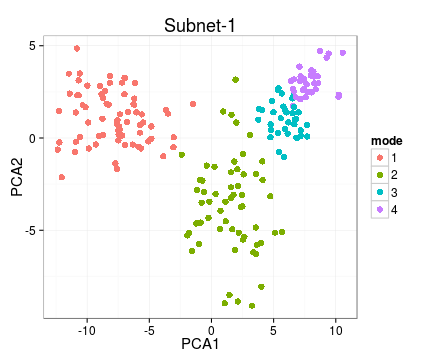
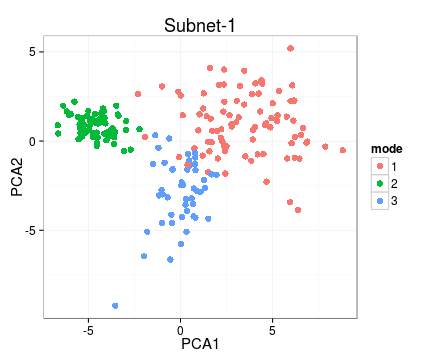
R

diff --git a/vignettes/NetResponse.md b/vignettes/NetResponse.md
@@ -45,8 +45,7 @@ alternative states.
 Examples on running NetResponse algorithm and visualizing the
 results. The algorithm combines network and functional information to
 detect coherent subnetworks that reveal distinct activation modes
-across conditions. Kindly cite [this
-article](http://bioinformatics.oxfordjournals.org/content/26/21/2713.short).
+across conditions. 
 
 
 ```r
@@ -60,11 +59,14 @@ component.means <- res$means
 component.sds   <- res$sds
 sample2comp     <- res$sample2comp
 
+# Use fully connected network
+network <- matrix(rep(1, 9), nrow = 3) 
+
 # Fit NetResponse model
 # Various network formats are supported, see help(detect.responses) for
 # details. With large data sets, consider the 'speedup' option.
 set.seed(4243)
-res <- detect.responses(D, mixture.method = "vdp", pca.basis = TRUE)
+res <- detect.responses(D, network, mixture.method = "vdp", pca.basis = TRUE)
 
 # List subnets (each is a list of nodes)
 subnet.id <- names(get.subnets(res))[[1]]
@@ -140,6 +142,22 @@ the highest probability:
 ```r
 subnet.id <- 'Subnet-1'
 
+# Sample - response probabilities (soft cluster assignment)
+response.probs <- sample2response(res, subnet.id)
+tail(round(response.probs, 6))
+```
+
+```
+##              Mode-1   Mode-2 Mode-3
+## Sample-195 0.990832 0.009118  5e-05
+## Sample-196 1.000000 0.000000  0e+00
+## Sample-197 1.000000 0.000000  0e+00
+## Sample-198 1.000000 0.000000  0e+00
+## Sample-199 1.000000 0.000000  0e+00
+## Sample-200 0.999991 0.000000  9e-06
+```
+
+```r
 # Sample - response hard assignments
 hard.clusters <- response2sample(res, subnet.id)
 print(hard.clusters)
@@ -147,70 +165,51 @@ print(hard.clusters)
 
 ```
 ## $`Mode-1`
-##  [1] "Sample-9"   "Sample-11"  "Sample-15"  "Sample-22"  "Sample-27" 
-##  [6] "Sample-33"  "Sample-34"  "Sample-36"  "Sample-40"  "Sample-42" 
-## [11] "Sample-44"  "Sample-45"  "Sample-49"  "Sample-50"  "Sample-52" 
-## [16] "Sample-53"  "Sample-54"  "Sample-60"  "Sample-61"  "Sample-63" 
-## [21] "Sample-66"  "Sample-68"  "Sample-69"  "Sample-71"  "Sample-72" 
-## [26] "Sample-76"  "Sample-78"  "Sample-83"  "Sample-84"  "Sample-87" 
-## [31] "Sample-96"  "Sample-97"  "Sample-98"  "Sample-106" "Sample-111"
-## [36] "Sample-113" "Sample-116" "Sample-118" "Sample-122" "Sample-123"
-## [41] "Sample-124" "Sample-127" "Sample-129" "Sample-134" "Sample-137"
-## [46] "Sample-139" "Sample-142" "Sample-144" "Sample-151" "Sample-153"
-## [51] "Sample-154" "Sample-159" "Sample-161" "Sample-163" "Sample-167"
-## [56] "Sample-173" "Sample-174" "Sample-175" "Sample-177" "Sample-179"
-## [61] "Sample-180" "Sample-181" "Sample-183" "Sample-184" "Sample-186"
-## [66] "Sample-187" "Sample-188" "Sample-190" "Sample-191" "Sample-192"
-## [71] "Sample-197" "Sample-198"
+##  [1] "Sample-1"   "Sample-2"   "Sample-3"   "Sample-4"   "Sample-5"  
+##  [6] "Sample-7"   "Sample-8"   "Sample-12"  "Sample-13"  "Sample-18" 
+## [11] "Sample-19"  "Sample-20"  "Sample-21"  "Sample-22"  "Sample-24" 
+## [16] "Sample-25"  "Sample-27"  "Sample-30"  "Sample-33"  "Sample-34" 
+## [21] "Sample-36"  "Sample-37"  "Sample-39"  "Sample-42"  "Sample-44" 
+## [26] "Sample-46"  "Sample-47"  "Sample-51"  "Sample-55"  "Sample-56" 
+## [31] "Sample-58"  "Sample-59"  "Sample-61"  "Sample-64"  "Sample-65" 
+## [36] "Sample-70"  "Sample-71"  "Sample-73"  "Sample-78"  "Sample-80" 
+## [41] "Sample-82"  "Sample-83"  "Sample-88"  "Sample-92"  "Sample-96" 
+## [46] "Sample-99"  "Sample-100" "Sample-102" "Sample-103" "Sample-106"
+## [51] "Sample-107" "Sample-108" "Sample-110" "Sample-112" "Sample-113"
+## [56] "Sample-115" "Sample-121" "Sample-123" "Sample-124" "Sample-131"
+## [61] "Sample-134" "Sample-138" "Sample-139" "Sample-144" "Sample-145"
+## [66] "Sample-147" "Sample-148" "Sample-150" "Sample-151" "Sample-153"
+## [71] "Sample-154" "Sample-156" "Sample-160" "Sample-161" "Sample-164"
+## [76] "Sample-165" "Sample-170" "Sample-173" "Sample-176" "Sample-179"
+## [81] "Sample-185" "Sample-188" "Sample-190" "Sample-192" "Sample-197"
+## [86] "Sample-199" "Sample-200"
 ## 
 ## $`Mode-2`
-##  [1] "Sample-8"   "Sample-10"  "Sample-13"  "Sample-17"  "Sample-19" 
-##  [6] "Sample-20"  "Sample-21"  "Sample-23"  "Sample-24"  "Sample-26" 
-## [11] "Sample-29"  "Sample-30"  "Sample-31"  "Sample-39"  "Sample-46" 
-## [16] "Sample-48"  "Sample-51"  "Sample-57"  "Sample-67"  "Sample-74" 
-## [21] "Sample-77"  "Sample-81"  "Sample-86"  "Sample-90"  "Sample-93" 
-## [26] "Sample-95"  "Sample-101" "Sample-104" "Sample-109" "Sample-110"
-## [31] "Sample-117" "Sample-119" "Sample-121" "Sample-125" "Sample-126"
-## [36] "Sample-130" "Sample-131" "Sample-135" "Sample-141" "Sample-143"
-## [41] "Sample-146" "Sample-147" "Sample-150" "Sample-157" "Sample-158"
-## [46] "Sample-160" "Sample-165" "Sample-166" "Sample-171" "Sample-172"
-## [51] "Sample-176" "Sample-178" "Sample-182" "Sample-185" "Sample-189"
-## [56] "Sample-193" "Sample-195" "Sample-199" "Sample-200"
+##  [1] "Sample-6"   "Sample-9"   "Sample-11"  "Sample-15"  "Sample-17" 
+##  [6] "Sample-23"  "Sample-28"  "Sample-29"  "Sample-31"  "Sample-32" 
+## [11] "Sample-35"  "Sample-38"  "Sample-43"  "Sample-45"  "Sample-48" 
+## [16] "Sample-49"  "Sample-53"  "Sample-54"  "Sample-57"  "Sample-60" 
+## [21] "Sample-66"  "Sample-68"  "Sample-69"  "Sample-74"  "Sample-75" 
+## [26] "Sample-76"  "Sample-77"  "Sample-79"  "Sample-85"  "Sample-89" 
+## [31] "Sample-93"  "Sample-95"  "Sample-98"  "Sample-109" "Sample-114"
+## [36] "Sample-122" "Sample-125" "Sample-130" "Sample-133" "Sample-135"
+## [41] "Sample-136" "Sample-137" "Sample-140" "Sample-142" "Sample-143"
+## [46] "Sample-149" "Sample-158" "Sample-159" "Sample-163" "Sample-166"
+## [51] "Sample-167" "Sample-168" "Sample-171" "Sample-172" "Sample-174"
+## [56] "Sample-175" "Sample-180" "Sample-181" "Sample-182" "Sample-183"
+## [61] "Sample-187" "Sample-189" "Sample-191" "Sample-196" "Sample-198"
 ## 
 ## $`Mode-3`
-##  [1] "Sample-1"   "Sample-4"   "Sample-5"   "Sample-7"   "Sample-12" 
-##  [6] "Sample-14"  "Sample-18"  "Sample-25"  "Sample-32"  "Sample-37" 
-## [11] "Sample-38"  "Sample-41"  "Sample-43"  "Sample-47"  "Sample-58" 
-## [16] "Sample-59"  "Sample-62"  "Sample-65"  "Sample-70"  "Sample-75" 
-## [21] "Sample-79"  "Sample-82"  "Sample-102" "Sample-107" "Sample-114"
-## [26] "Sample-115" "Sample-120" "Sample-128" "Sample-136" "Sample-140"
-## [31] "Sample-145" "Sample-148" "Sample-156" "Sample-162" "Sample-164"
-## [36] "Sample-169"
-## 
-## $`Mode-4`
-##  [1] "Sample-2"   "Sample-3"   "Sample-6"   "Sample-16"  "Sample-28" 
-##  [6] "Sample-35"  "Sample-55"  "Sample-56"  "Sample-64"  "Sample-73" 
-## [11] "Sample-80"  "Sample-85"  "Sample-88"  "Sample-89"  "Sample-91" 
-## [16] "Sample-92"  "Sample-94"  "Sample-99"  "Sample-100" "Sample-103"
-## [21] "Sample-105" "Sample-108" "Sample-112" "Sample-132" "Sample-133"
-## [26] "Sample-138" "Sample-149" "Sample-152" "Sample-155" "Sample-168"
-## [31] "Sample-170" "Sample-194" "Sample-196"
-```
-
-```r
-# Sample - response probabilities (soft cluster assignment)
-response.probs <- sample2response(res, subnet.id)
-tail(round(response.probs, 6))
-```
-
-```
-##              Mode-1   Mode-2  Mode-3   Mode-4
-## Sample-195 0.992176 0.007824 0.0e+00 0.000000
-## Sample-196 0.000000 1.000000 0.0e+00 0.000000
-## Sample-197 0.001001 0.996800 2.5e-05 0.002175
-## Sample-198 0.000000 1.000000 0.0e+00 0.000000
-## Sample-199 0.000010 0.999990 0.0e+00 0.000000
-## Sample-200 0.000000 0.999999 1.0e-06 0.000000
+##  [1] "Sample-10"  "Sample-14"  "Sample-16"  "Sample-26"  "Sample-40" 
+##  [6] "Sample-41"  "Sample-50"  "Sample-52"  "Sample-62"  "Sample-63" 
+## [11] "Sample-67"  "Sample-72"  "Sample-81"  "Sample-84"  "Sample-86" 
+## [16] "Sample-87"  "Sample-90"  "Sample-91"  "Sample-94"  "Sample-97" 
+## [21] "Sample-101" "Sample-104" "Sample-105" "Sample-111" "Sample-116"
+## [26] "Sample-117" "Sample-118" "Sample-119" "Sample-120" "Sample-126"
+## [31] "Sample-127" "Sample-128" "Sample-129" "Sample-132" "Sample-141"
+## [36] "Sample-146" "Sample-152" "Sample-155" "Sample-157" "Sample-162"
+## [41] "Sample-169" "Sample-177" "Sample-178" "Sample-184" "Sample-186"
+## [46] "Sample-193" "Sample-194" "Sample-195"
 ```
 
 Retrieve model parameters for a given subnetwork (Gaussian mixture
@@ -238,8 +237,6 @@ al.](http://www.sciencedirect.com/science/article/pii/S0925231208000659).
 
 
 ```r
-set.seed(123)
-            
 # Generate 2-dimensional simulated data with 3 clusters
 res <- generate.toydata(Dim = 2, Nc = 3, Ns = 200, sd0 = 3, rgam.shape = 1, rgam.scale = 1)
 
@@ -274,6 +271,14 @@ estimated.sample2comp <- apply(mixt$posterior$qOFz, 1, which.max)
 # nearly all samples have one-to-one match between the real and estimated 
 # clusters
 head(table(estimated.sample2comp, real.sample2comp))
+```
+
+```
+##                      real.sample2comp
+## estimated.sample2comp  1  2  3
+##                     1 74  0  1
+##                     2  0 67  8
+##                     3  0  1 49
 ```
 
 
